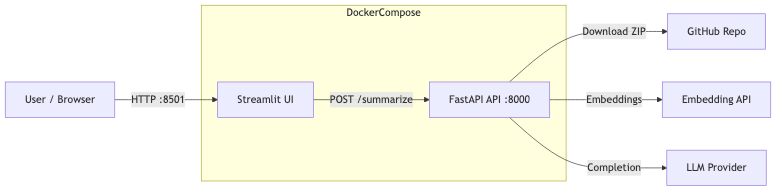
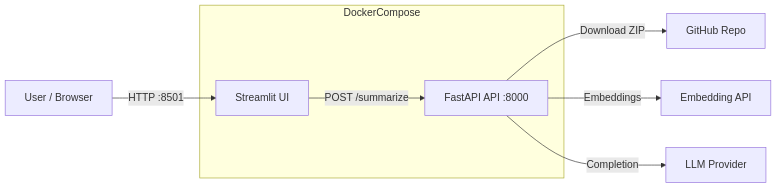
chore(docs): render mermaid PNG fallbacks

diff --git a/README.md b/README.md
@@ -17,6 +17,8 @@ fits them into the LLM context window, and calls an LLM to generate the summary.
 ```markdown
 ![Docker Compose architecture](docs/diagrams/readme-mermaid-01-d8bf1129.png)
 
+![Diagram 1](docs/diagrams/readme-mermaid-01-d8bf1129.png)
+
 ```mermaid
 flowchart LR
   U["User / Browser"] -->|HTTP :8501| S["Streamlit UI"]
@@ -33,6 +35,8 @@ flowchart LR
 
 ### API + RAG flow
 ![API + RAG flow](docs/diagrams/readme-mermaid-02-9c8d8587.png)
+
+![Diagram 2](docs/diagrams/readme-mermaid-02-9c8d8587.png)
 
 ```mermaid
 sequenceDiagram
